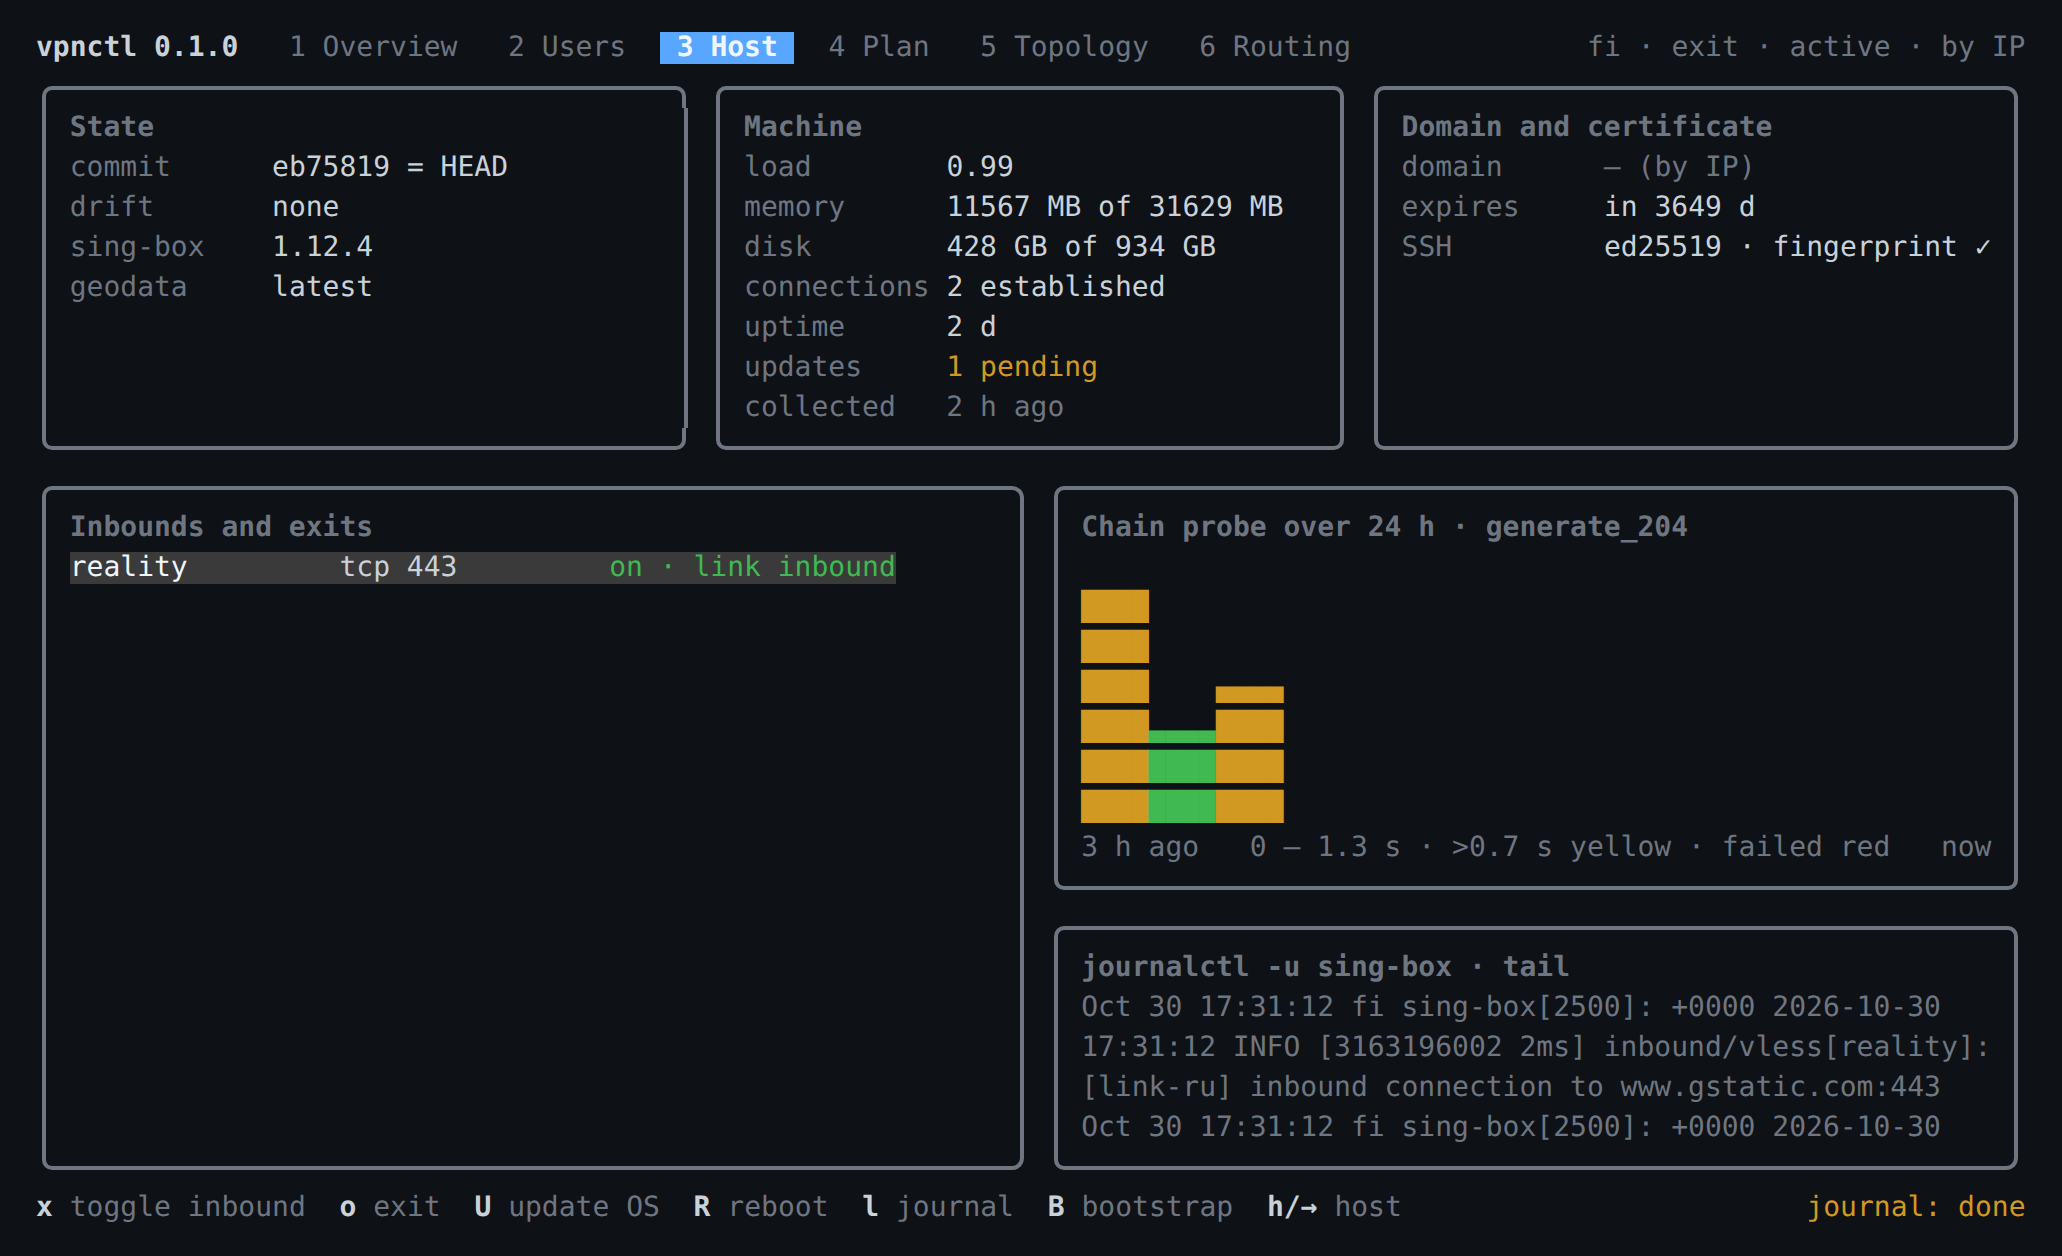
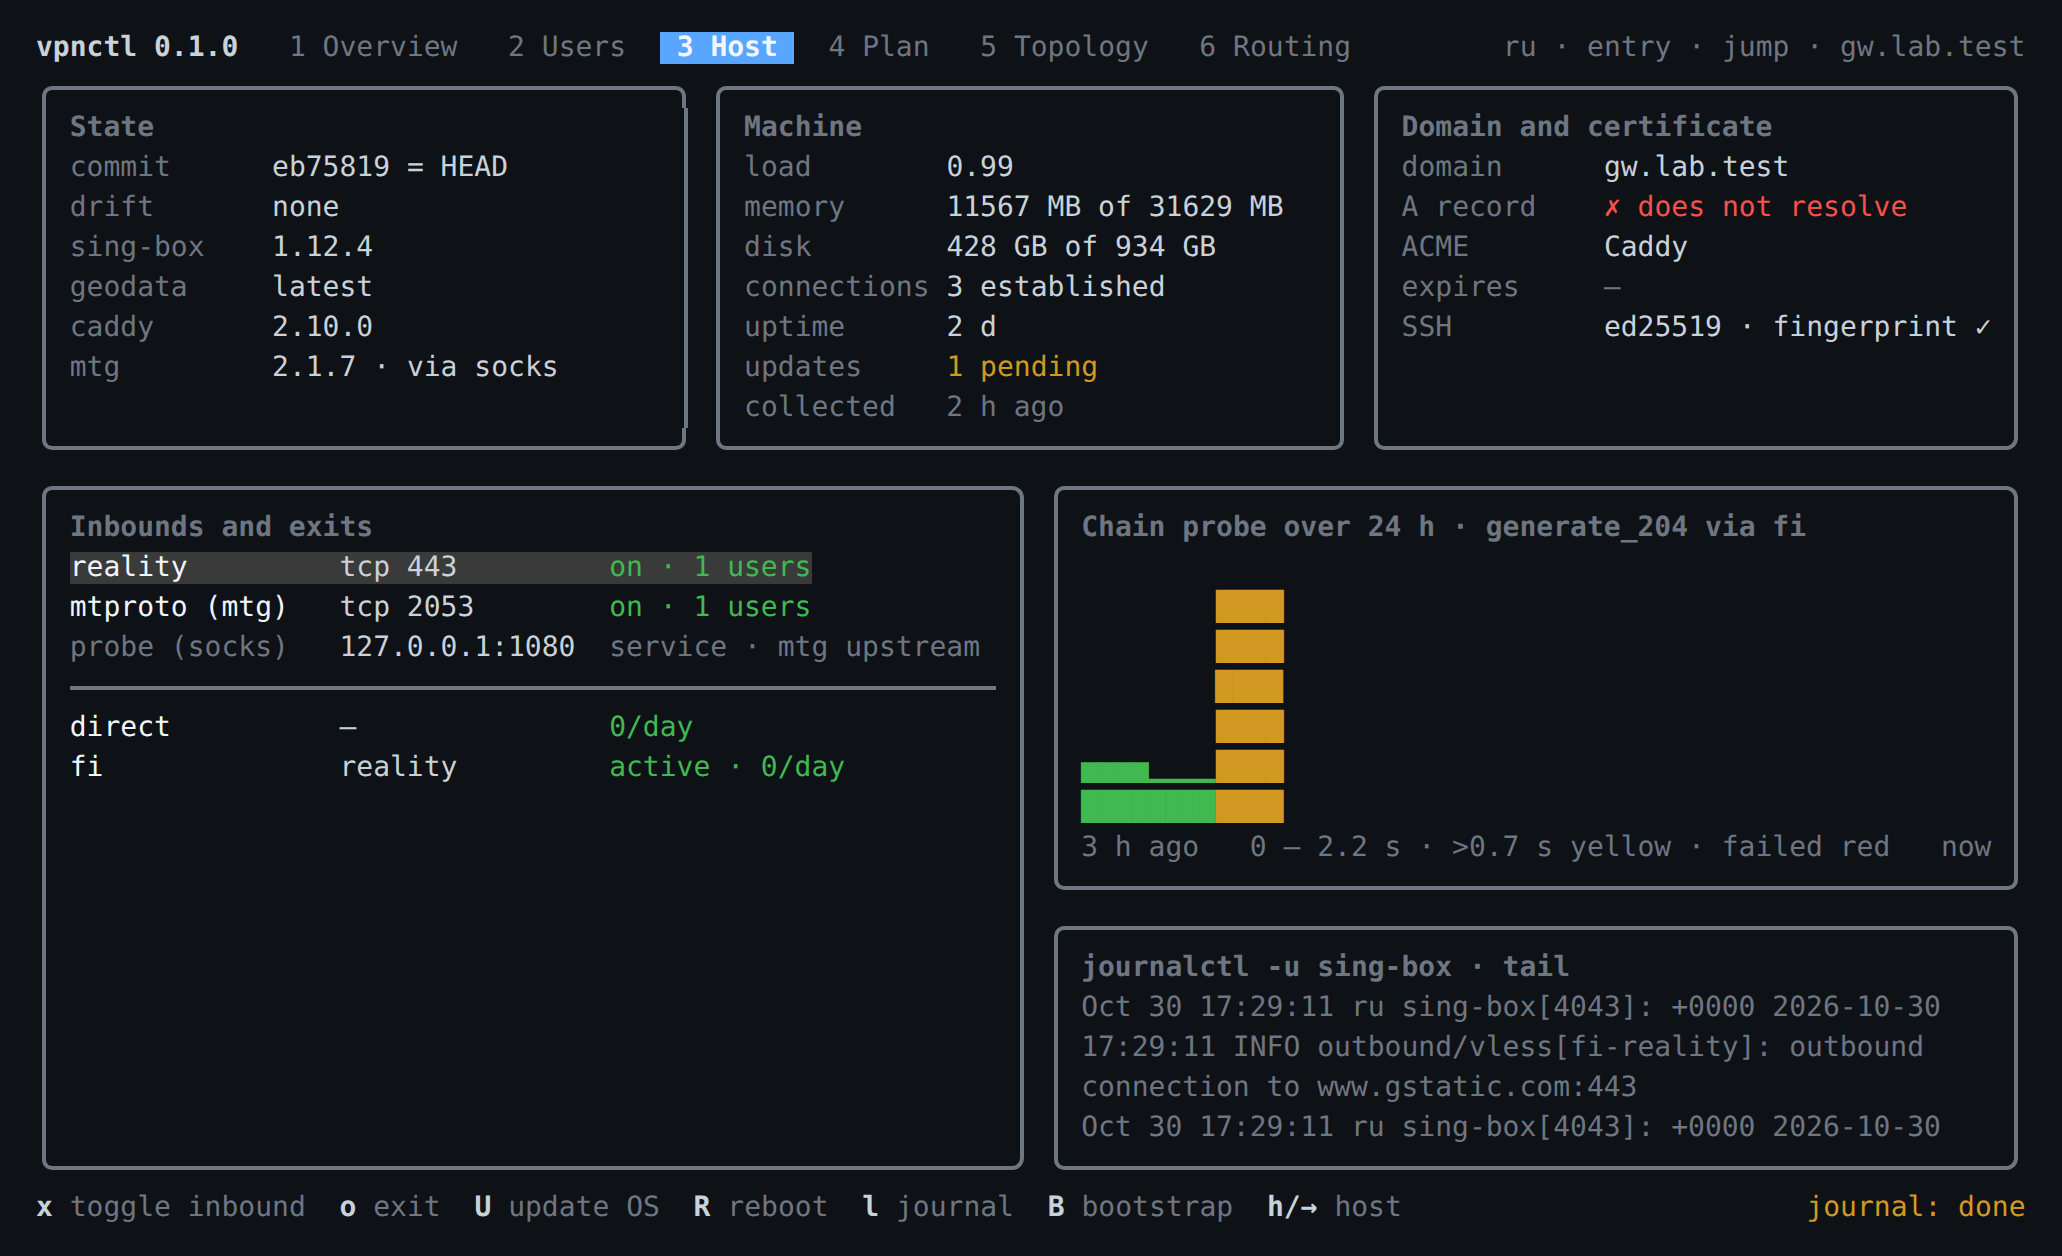
docs: host screenshot and screenshot pipeline notes

diff --git a/README.md b/README.md
@@ -136,7 +136,7 @@ Colours: **green** — fine, **yellow** — needs attention (drift, behind HEAD,
 |---|---|
 | ![Host](docs/img/tui-3-host.png) | ![Plan](docs/img/tui-4-plan.png) |
 
-Screenshots are from the two-container lab (two hosts, one user), captured with `tmux capture-pane`. Values that are not collected yet show as `—` or `no data yet`. Key help (`?`):
+Screenshots are from the two-container lab (two hosts, one user), captured by `scripts/shots/capture.sh <state dir>`: it drives the TUI in tmux, turns `capture-pane` output into HTML (box-drawing characters become CSS cells so frames join cleanly) and renders PNGs with headless Chromium. Values that are not collected yet show as `—` or `no data yet`. Key help (`?`):
 
 ![Help](docs/img/tui-help.png)
 
